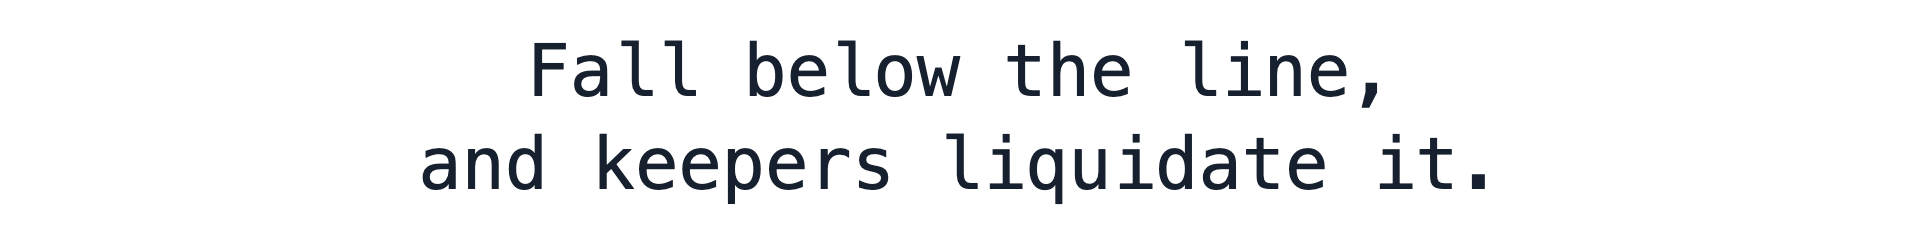
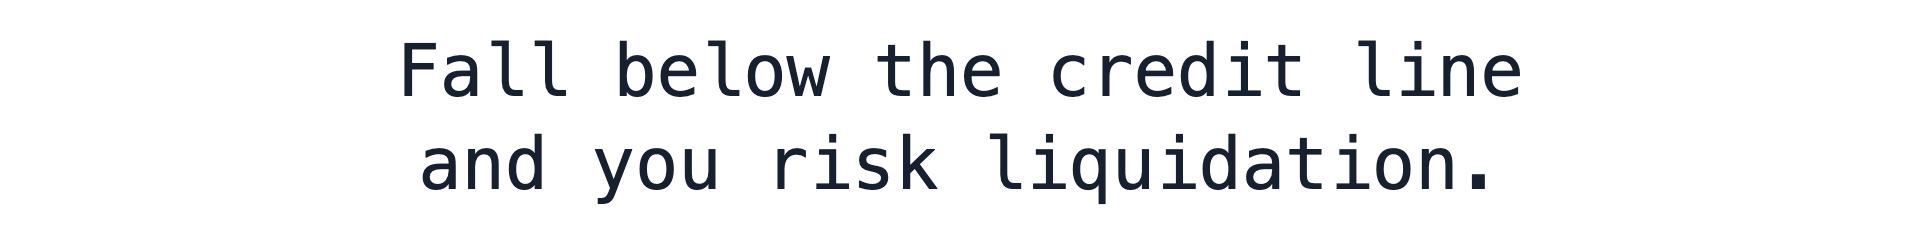
marketing/explainer: second review round on both films
Film A: a pacing warp (plan.plan_time) plays the plan with the frozen open cut from 3.0 s to 1.0 s and
the long holds trimmed, giving the time to the transitions (the 18.5-20.0 reassembly 1.5 s -> 2.5 s);
the push, blink and hit are unchanged. Captions: "Fall below the credit line / and you risk
liquidation." and the tagline "Priced by agents. Backed by IMD." (alt: "The swarm's dollar.").
Film B: etched green marks (brand.html) warped onto each plate's fitted oval: $ on the pediment, the
coin and both banners; our mark on the coin after the wipe; the imd.fun medallion at the centre of the
agent wall. K3 regenerated (nano-banana edit, real-esrgan x2): machines on both sides, a robot raising
the coin (edit_k3.py). Captions: "Anyone may request it." and "Every note redeems for one dollar of IMD."

Claude-Session: https://claude.ai/code/session_018mD8VTdZpm25fWMGf2XJAX

Changed region(s): [[0.1875, 0.1417, 0.8125, 0.4251], [0.3125, 0.5385, 0.7812, 0.8219], [0.4062, 0.5385, 0.4375, 0.5668]]

diff --git a/marketing/explainer/film-b/brand.html b/marketing/explainer/film-b/brand.html
@@ -1,0 +1,73 @@
+<!doctype html><meta charset="utf-8"><body style="margin:0">
+<script>
+// Etched marks for film B's plates: the $ (before the wipe), our pixel I (after it) and the imd.fun mark (the
+// agent wall), drawn the way the plates are drawn: engraved green, a firm outline and fine hatching inside,
+// on a transparent 1024x1024 canvas centred in a circle of radius 0.85 so an affine warp can fit it to any oval.
+const PAL = { ivory: "#F7F5EF", ink: "#16202E", green: "#2F5D50", hair: "#D8D3C7" };
+const S = 1024, C = S / 2, R = S * 0.425;
+const mk = () => { const c = document.createElement("canvas"); c.width = c.height = S; return c; };
+const out = {};
+
+// fill a mask canvas with engraved hatching: horizontal lines, plus a second, finer set where `dense`
+function hatch(mask, gap = 9, lw = 3.2, cross = false) {
+  const h = mk(), c = h.getContext("2d");
+  c.strokeStyle = PAL.green; c.lineWidth = lw;
+  for (let y = gap / 2; y < S; y += gap) { c.beginPath(); c.moveTo(0, y + 2 * Math.sin(y / 37)); for (let x = 0; x <= S; x += 16) c.lineTo(x, y + 2 * Math.sin((x + y) / 37)); c.stroke(); }
+  if (cross) { c.lineWidth = lw * 0.6; for (let x = -S; x < S; x += gap * 1.4) { c.beginPath(); c.moveTo(x, 0); c.lineTo(x + S, S); c.stroke(); } }
+  c.globalCompositeOperation = "destination-in"; c.drawImage(mask, 0, 0);
+  return h;
+}
+
+// 1. the $: a serif glyph, outlined and hatched
+{
+  const m = mk(), mc = m.getContext("2d");
+  mc.font = `700 ${S * 0.82}px Georgia, 'Times New Roman', serif`; mc.textAlign = "center"; mc.textBaseline = "middle";
+  mc.fillStyle = "#000"; mc.fillText("$", C, C + S * 0.04);
+  const o = mk(), c = o.getContext("2d");
+  c.drawImage(hatch(m, 8, 3.4, true), 0, 0);
+  c.font = mc.font; c.textAlign = "center"; c.textBaseline = "middle";
+  c.lineWidth = 14; c.strokeStyle = PAL.green; c.lineJoin = "round"; c.strokeText("$", C, C + S * 0.04);
+  out["dollar-etched"] = o;
+}
+
+// 2. our pixel I (the site mark, 16x16 grid): each rect hatched by its coverage, all outlined
+{
+  const MARK = [[5,4,7,1,1],[8,4,1,8,1],[5,11,7,1,1],[4,4,1,1,.5],[12,4,1,1,.5],[4,11,1,1,.5],[12,11,1,1,.5],[5,7,3,2,.5],[9,7,3,2,.5],[4,7,1,2,.25],[12,7,1,2,.25]];
+  const u = (2 * R) / 9, x0 = C - 4.5 * u - 4 * u, y0 = C - 4.0 * u - 4 * u;   // mark spans x 4..13, y 4..12
+  const o = mk(), c = o.getContext("2d");
+  for (const [level, gap, cross] of [[1, 7, true], [.5, 10, false], [.25, 16, false]]) {
+    const m = mk(), mc = m.getContext("2d"); mc.fillStyle = "#000";
+    for (const [x, y, w, h, a] of MARK) if (a === level) mc.fillRect(x0 + x * u, y0 + y * u, w * u, h * u);
+    c.drawImage(hatch(m, gap, 3.2, cross), 0, 0);
+  }
+  c.strokeStyle = PAL.green; c.lineWidth = 10;
+  for (const [x, y, w, h] of MARK) c.strokeRect(x0 + x * u, y0 + y * u, w * u, h * u);
+  out["mark-etched"] = o;
+}
+
+// 3. the imd.fun mark (a square frame with a diamond inside, from imd.fun/icon.svg) set in an ivory medallion
+//    with engraved rings, so it reads as an emblem at the centre of the agent wall
+{
+  const o = mk(), c = o.getContext("2d");
+  c.fillStyle = PAL.ivory; c.beginPath(); c.arc(C, C, R, 0, 7); c.fill();
+  c.strokeStyle = PAL.green;
+  for (const [r, w] of [[R - 6, 12], [R - 30, 4], [R - 44, 2]]) { c.lineWidth = w; c.beginPath(); c.arc(C, C, r, 0, 7); c.stroke(); }
+  // a fine guilloché ring between the outer rings
+  c.lineWidth = 1.6;
+  for (let j = 0; j < 24; j++) { c.beginPath(); for (let i = 0; i <= 720; i++) { const t = i / 720 * Math.PI * 2, r = R - 18 + 9 * Math.sin(24 * t + j * 0.26); const x = C + r * Math.cos(t), y = C + r * Math.sin(t); i ? c.lineTo(x, y) : c.moveTo(x, y); } c.stroke(); }
+  const k = (R - 62) / (16 * Math.SQRT2), ox = C - 16 * k, oy = C - 16 * k;   // the 32-unit icon, its corners inside the inner ring
+  const m = mk(), mc = m.getContext("2d"); mc.fillStyle = "#000";
+  mc.fillRect(ox + 0 * k, oy + 0 * k, 32 * k, 3 * k); mc.fillRect(ox, oy + 29 * k, 32 * k, 3 * k);
+  mc.fillRect(ox, oy, 3 * k, 32 * k); mc.fillRect(ox + 29 * k, oy, 3 * k, 32 * k);
+  mc.lineWidth = 2.6 * k; mc.lineJoin = "miter"; mc.strokeStyle = "#000";
+  mc.beginPath(); mc.moveTo(ox + 16 * k, oy + 8.5 * k); mc.lineTo(ox + 23.5 * k, oy + 16 * k); mc.lineTo(ox + 16 * k, oy + 23.5 * k); mc.lineTo(ox + 8.5 * k, oy + 16 * k); mc.closePath(); mc.stroke();
+  c.drawImage(hatch(m, 7, 3.2, true), 0, 0);
+  c.strokeStyle = PAL.green; c.lineWidth = 6;
+  c.strokeRect(ox, oy, 32 * k, 32 * k); c.strokeRect(ox + 3 * k, oy + 3 * k, 26 * k, 26 * k);
+  out["imdfun-medallion"] = o;
+}
+
+const pre = document.createElement("pre"); pre.id = "out";
+pre.textContent = Object.entries(out).map(([n, cv]) => n + "\t" + cv.toDataURL("image/png").split(",")[1]).join("\n");
+document.body.appendChild(pre);
+</script>

diff --git a/marketing/explainer/layers.html b/marketing/explainer/layers.html
@@ -142,13 +142,13 @@ const CAPTIONS = {
   "a1b": "Borrow dollars against it.",
   "a2": "The price is a question.\nA panel of agents answers it.",
   "a3": "Every note redeems for a dollar of IMD.",
-  "a4": "Fall below the line,\nand keepers liquidate it.",
-  "a5": "Minted by agents. Redeemable by anyone.",
-  "a5-alt": "A dollar with a panel behind it.",
+  "a4": "Fall below the credit line\nand you risk liquidation.",
+  "a5": "Priced by agents. Backed by IMD.",
+  "a5-alt": "The swarm's dollar.",
   "b1": "Who decides what a dollar is worth?",
   "b2": "Here, a panel of agents answers\none fixed question.",
-  "b3": "The answer is signed.\nAnyone may submit it.",
-  "b4": "Every note redeems for a dollar of IMD.",
+  "b3": "The answer is signed.\nAnyone may request it.",
+  "b4": "Every note redeems for one dollar of IMD.",
   "url": "imdusd.com",
 };
 const caption = (txt, col) => {

diff --git a/marketing/explainer/film-b/edit_k3.py b/marketing/explainer/film-b/edit_k3.py
@@ -1,0 +1,111 @@
+#!/usr/bin/env python3
+"""Regenerate film B's dissolve keyframe (K3) with image-editing models on Replicate.
+
+User's direction (2026-10-07): after the wipe, BOTH sides of the room are clocks and computers, and the
+standing figure is a robot raising the coin. The edit starts from the accepted K3 so perspective, style and
+the coin's place hold; candidates go to edit-k3/<model>-<n>.png for picking by eye.
+
+    REPLICATE_API_TOKEN=... python3 marketing/explainer/film-b/edit_k3.py [takes per model]
+"""
+import json
+import os
+import sys
+import time
+import urllib.request
+from pathlib import Path
+
+HERE = Path(__file__).parent
+SRC = HERE / "keyframes" / "k3-dissolve.png"
+OUT = HERE / "edit-k3"
+PROMPT = (
+    "Edit this steel-engraved banknote-style illustration. Keep exactly the same engraving style, fine intaglio "
+    "hatching, palette (ivory paper, dark navy ink, engraved green), camera angle, perspective and composition, "
+    "and keep the long table running down the middle toward the arched window. Change only two things. "
+    "(1) Replace everything on the LEFT side of the room (the seated people, the left wall, the hanging banner, "
+    "the window and the potted trees) with the same wall of engraved instrument panels that fills the right side: "
+    "round dials with needles, meters, knobs and small screens with green traces, so both sides of the room are "
+    "machines, roughly mirrored around the centre. No people sit at the table. "
+    "(2) Turn the standing central figure into a humanoid robot drawn in the same engraved hatching, same pose and "
+    "place, still raising the round coin high in its right hand. Keep the coin plain and blank in the same place. "
+    "No text, letters, numbers or logos anywhere. 16:9."
+)
+MODELS = {
+    "nano-banana": ("google/nano-banana", lambda url: {"prompt": PROMPT, "image_input": [url], "aspect_ratio": "16:9", "output_format": "png"}),
+    "kontext": ("black-forest-labs/flux-kontext-pro", lambda url: {"prompt": PROMPT, "input_image": url, "aspect_ratio": "16:9", "output_format": "png", "safety_tolerance": 2}),
+    "seedream": ("bytedance/seedream-4", lambda url: {"prompt": PROMPT, "image_input": [url], "size": "2K", "aspect_ratio": "16:9"}),
+}
+
+
+def call(method, path, token, body=None, raw=None, ctype="application/json"):
+    req = urllib.request.Request("https://api.replicate.com/v1" + path, method=method,
+                                 data=raw if raw is not None else (json.dumps(body).encode() if body else None),
+                                 headers={"Authorization": "Bearer " + token, "Content-Type": ctype})
+    for attempt in range(8):
+        try:
+            with urllib.request.urlopen(req, timeout=300) as r:
+                return json.load(r)
+        except urllib.error.HTTPError as e:
+            if e.code != 429 or attempt == 7:
+                raise RuntimeError(f"{e.code} {e.read()[:300]}")
+            time.sleep(15 * (attempt + 1))
+
+
+def upload(path, token):
+    boundary = "----k3edit"
+    data = (f"--{boundary}\r\nContent-Disposition: form-data; name=\"content\"; filename=\"{path.name}\"\r\n"
+            f"Content-Type: image/png\r\n\r\n").encode() + path.read_bytes() + f"\r\n--{boundary}--\r\n".encode()
+    f = call("POST", "/files", token, raw=data, ctype=f"multipart/form-data; boundary={boundary}")
+    return f["urls"]["get"]
+
+
+ROBOT = (
+    "Edit this steel-engraved illustration. Keep everything exactly as it is: the engraving style, hatching, palette, "
+    "both walls of instrument panels, the table, the arched window and landscape, the composition, and the raised "
+    "round coin, plain and blank, in exactly the same place and size. Change ONLY the standing figure in the middle: "
+    "make it a humanoid robot (metal head, jointed arms, armoured torso) drawn in the same fine engraved hatching and "
+    "dark navy ink, seen from behind in exactly the same pose, raising the coin with its right hand. "
+    "No text, letters, numbers or logos anywhere. 16:9."
+)
+
+
+def main():
+    token = os.environ["REPLICATE_API_TOKEN"]
+    if len(sys.argv) > 2 and sys.argv[1] == "robot":
+        # second pass: robot only, starting from a chosen first-pass frame
+        src = OUT / sys.argv[2]; takes = int(sys.argv[3]) if len(sys.argv) > 3 else 2
+        url = upload(src, token)
+        for n in range(1, takes + 1):
+            p = call("POST", "/models/google/nano-banana/predictions", token,
+                     {"input": {"prompt": ROBOT, "image_input": [url], "aspect_ratio": "16:9", "output_format": "png"}})
+            while p["status"] not in ("succeeded", "failed", "canceled"):
+                time.sleep(3); p = call("GET", f"/predictions/{p['id']}", token)
+            if p["status"] != "succeeded":
+                print("robot", n, "FAILED", p.get("error")); continue
+            o = p["output"]; o = o[0] if isinstance(o, list) else o
+            dst = OUT / f"robot-{src.stem}-{n}.png"
+            with urllib.request.urlopen(o, timeout=300) as r:
+                dst.write_bytes(r.read())
+            print("robot", n, "->", dst.name)
+        return
+    takes = int(sys.argv[1]) if len(sys.argv) > 1 else 1
+    OUT.mkdir(exist_ok=True)
+    url = upload(SRC, token)
+    for key, (model, inp) in MODELS.items():
+        for n in range(1, takes + 1):
+            try:
+                p = call("POST", f"/models/{model}/predictions", token, {"input": inp(url)})
+                while p["status"] not in ("succeeded", "failed", "canceled"):
+                    time.sleep(3); p = call("GET", f"/predictions/{p['id']}", token)
+                if p["status"] != "succeeded":
+                    print(key, n, "FAILED", p.get("error")); continue
+                o = p["output"]; o = o[0] if isinstance(o, list) else o
+                dst = OUT / f"{key}-{n}.png"
+                with urllib.request.urlopen(o, timeout=300) as r:
+                    dst.write_bytes(r.read())
+                print(key, n, "->", dst.name, p.get("metrics", {}).get("predict_time"))
+            except Exception as e:
+                print(key, n, "ERROR", e)
+
+
+if __name__ == "__main__":
+    main()

diff --git a/marketing/explainer/film-b/build_b.py b/marketing/explainer/film-b/build_b.py
@@ -56,8 +56,21 @@ SHEET_PORTRAIT = on_sheet(NOTE_UV[0] + (NOTE_UV[1] - NOTE_UV[0]) * _pu, NOTE_UV[
 
 # Our mark on the plates that carry a blank place for one: the bank's pediment cartouche and the raised coin
 # (same coin, same place, in K2 and K3). The pixel mark is scaled with nearest-neighbour so it stays crisp.
-MARK = os.path.join(ROOT, "marketing", "kit", "logo", "mark-transparent-1024.png")
-BRAND = {"k1-bank": [(960, 165, 96)], "k2-board": [(1003, 242, 64)], "k3-dissolve": [(1002, 242, 64)]}
+# Etched green marks (brand.html -> brand/), each drawn inside a circle of radius 0.85 of its 1024 canvas. A
+# placement is (asset, centre, A): A maps the unit circle onto the target oval, fitted from the plate's own
+# ivory blob (its second moments), so a mark on an oval seen at an angle takes that angle.
+BRAND_DIR = os.path.join(os.path.dirname(os.path.abspath(__file__)), "brand")
+BRAND = {
+    # before the wipe: the dollar, on the bank's pediment, the raised coin and both hanging banners
+    "k1-bank": [("dollar-etched", (960, 165), ((60, 0), (0, 60)))],
+    "k2-board": [("dollar-etched", (1003.4, 242.4), ((48, 0), (0, 48))),
+                 ("dollar-etched", (369.8, 205.0), ((39.48, 4.46), (4.46, 67.9))),
+                 ("dollar-etched", (1549.2, 205.0), ((39.75, -4.56), (-4.56, 68.23)))],
+    # after it: our mark on the robot's coin
+    "k3-dissolve": [("mark-etched", (1006.3, 236.2), ((42, 0), (0, 42)))],
+    # the agent wall: the imd.fun medallion over the central disc
+    "k4-swarm": [("imdfun-medallion", (960, 225), ((96, 0), (0, 96)))],
+}
 
 # Shots of the picture track (the scene): (keyframe, film start, film end, zoom from, zoom to, focus x, y)
 SHOTS = [
@@ -549,13 +562,21 @@ def check(path, aspect, kout, music):
 
 
 def brand(src, name, work):
-    """A copy of a keyframe with our mark set into its blank cartouche or coin, in the plate's ink."""
+    """A copy of a keyframe with the etched marks warped onto their ovals (affine, via perspective)."""
     out = os.path.join(work, name + "-branded.png")
     inputs, g, cur = ["-i", src], [], "0:v"
-    for i, (cx, cy, size) in enumerate(BRAND[name]):
-        inputs += ["-i", MARK]
-        g.append(f"[{i + 1}:v]scale={size}:{size}:flags=neighbor,format=rgba[m{i}]")
-        g.append(f"[{cur}][m{i}]overlay={round(cx - size / 2)}:{round(cy - size / 2)}:format=auto[o{i}]")
+    for i, (asset, (cx, cy), ((a, b), (c, d))) in enumerate(BRAND[name]):
+        k = 1 / 0.85                              # the canvas edge is at radius 1/0.85 of the drawn circle
+        corners = [(cx + (a * sx + b * sy) * k, cy + (c * sx + d * sy) * k) for sx, sy in ((-1, -1), (1, -1), (-1, 1), (1, 1))]
+        x0, y0 = math.floor(min(x for x, _ in corners)) - 2, math.floor(min(y for _, y in corners)) - 2
+        x1, y1 = math.ceil(max(x for x, _ in corners)) + 2, math.ceil(max(y for _, y in corners)) + 2
+        w, h = x1 - x0, y1 - y0
+        q = [(round(x - x0, 2), round(y - y0, 2)) for x, y in corners]
+        inputs += ["-i", os.path.join(BRAND_DIR, asset + ".png")]
+        g.append(f"[{i + 1}:v]format=rgba,scale={w}:{h}:flags=lanczos,"
+                 f"perspective=x0={q[0][0]}:y0={q[0][1]}:x1={q[1][0]}:y1={q[1][1]}:x2={q[2][0]}:y2={q[2][1]}:"
+                 f"x3={q[3][0]}:y3={q[3][1]}:sense=destination:interpolation=cubic,format=rgba[m{i}]")
+        g.append(f"[{cur}][m{i}]overlay={x0}:{y0}:format=auto[o{i}]")
         cur = f"o{i}"
     ff(*inputs, "-filter_complex", ";".join(g), "-map", f"[{cur}]", "-frames:v", "1", out)
     return out

diff --git a/marketing/explainer/film-a/render.py b/marketing/explainer/film-a/render.py
@@ -156,7 +156,7 @@ def plan_segment(film, f0, f1, Wr, Hr, Wf):
     """What is visible in frames f0..f1-1, the native box of each sprite that can be seen, and its
     largest on-screen scale (render px per native px)."""
     n = f1 - f0
-    ts = [(f0 + i) / FPS for i in range(n)]
+    ts = [plan.plan_time((f0 + i) / FPS) for i in range(n)]
     layers = []
     for s in film['sprites']:
         al = [max(0.0, min(1.0, s.alpha(t))) for t in ts]
@@ -225,7 +225,7 @@ def frame_graph(layers, i, f, Wr, Hr, W, H, kinds):
             pre = f'[{k}:v]format=gbrap'
         elif kind == 'seq':
             first, count = s.src[3], s.src[2]
-            ins += ['-i', kinds[s.src[1]] / f'{min(max(0, f - first), count - 1):04d}.png']
+            ins += ['-i', kinds[s.src[1]] / f'{min(max(0, round(plan.plan_time(f / FPS) * FPS) - first), count - 1):04d}.png']
             pre = f'[{k}:v]crop={cw}:{ch}:{cx}:{cy},scale={sw}:{sh}:flags=lanczos,format=gbrap'
         else:
             ins += ['-f', 'rawvideo', '-pix_fmt', 'rgba', '-s', f'{sw}x{sh}', '-i', L['raw']]
@@ -263,8 +263,8 @@ def segments_for(film, Wr, Hr, W):
     def ratio(a, b):
         worst = 1.0
         for s in film['sprites']:
-            sc = [max_scale(frame_matrix(film, s, t / FPS, Wr, Hr, W)) for t in range(a, b)
-                  if s.alpha(t / FPS) > .002]
+            sc = [max_scale(frame_matrix(film, s, plan.plan_time(t / FPS), Wr, Hr, W)) for t in range(a, b)
+                  if s.alpha(plan.plan_time(t / FPS)) > .002]
             sc = [x for x in sc if x > 1e-4]
             if len(sc) > 1: worst = max(worst, max(sc) / min(sc))
         return worst

diff --git a/marketing/explainer/film-a/plan.py b/marketing/explainer/film-a/plan.py
@@ -122,6 +122,22 @@ GLYPHS = [(727, 747), (752, 775), (780, 802), (832, 854), (859, 881), (885, 907)
           (938, 960), (965, 987), (991, 1013), (1019, 1040), (1069, 1094)]   # measured, left strip
 STRIP2_DX = 2171 - 727                            # the right strip's text is the left one + 1444
 
+# ------------------------------------------------------------------ pacing (review 2026-10-07)
+# The plan's own times stay as written; the film plays them through this warp. Knots are (plan time,
+# film time): the frozen open goes from 3.0 s to 1.0 s, the long holds lose a little, and that time goes
+# to the transitions (18.5-20.0, the reassembly from the strip, gains the most: 1.5 s -> 2.5 s). From
+# 33.5 s on, the push, the blink and the hit are untouched.
+WARP = [(0.0, 0.0), (3.0, 1.0), (4.3, 2.6), (6.5, 4.8), (8.6, 7.3), (11.0, 9.1), (12.2, 10.7),
+        (16.6, 15.1), (18.5, 17.0), (20.0, 19.5), (21.0, 20.9), (22.3, 22.2), (25.6, 24.5),
+        (28.0, 27.4), (30.0, 29.7), (31.6, 31.6), (33.5, 33.5), (40.0, 40.0)]
+
+def plan_time(t):
+    """Film time -> plan time (piecewise linear through WARP)."""
+    for (p0, f0), (p1, f1) in zip(WARP, WARP[1:]):
+        if t <= f1:
+            return p0 + (p1 - p0) * (t - f0) / (f1 - f0)
+    return t
+
 def framings(aspect):
     W, H = ASPECTS[aspect]; ar = W / H
     if aspect == '16x9':
